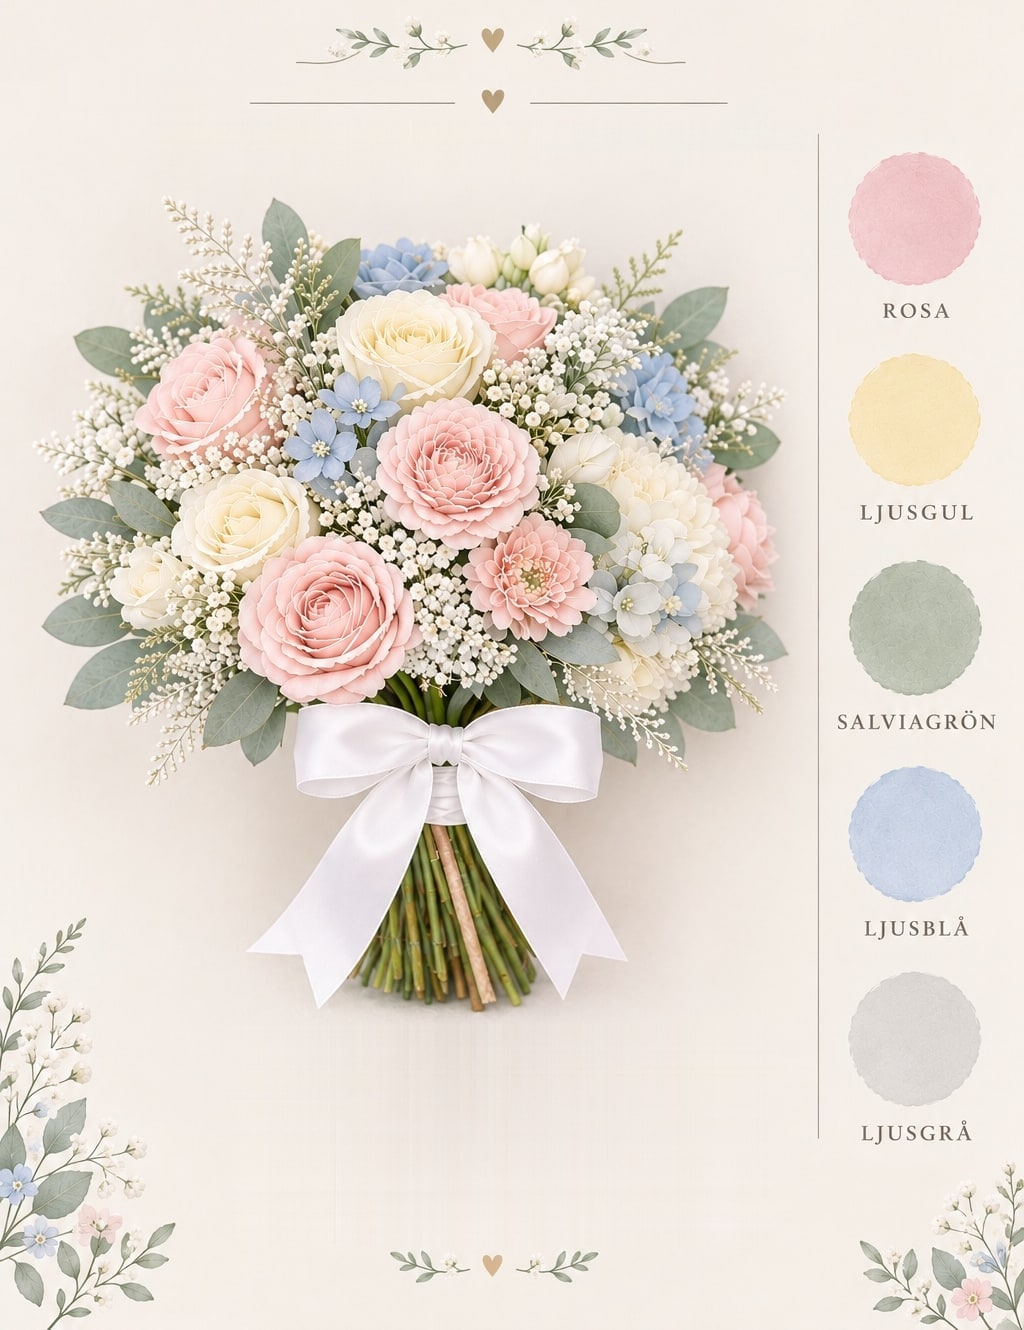
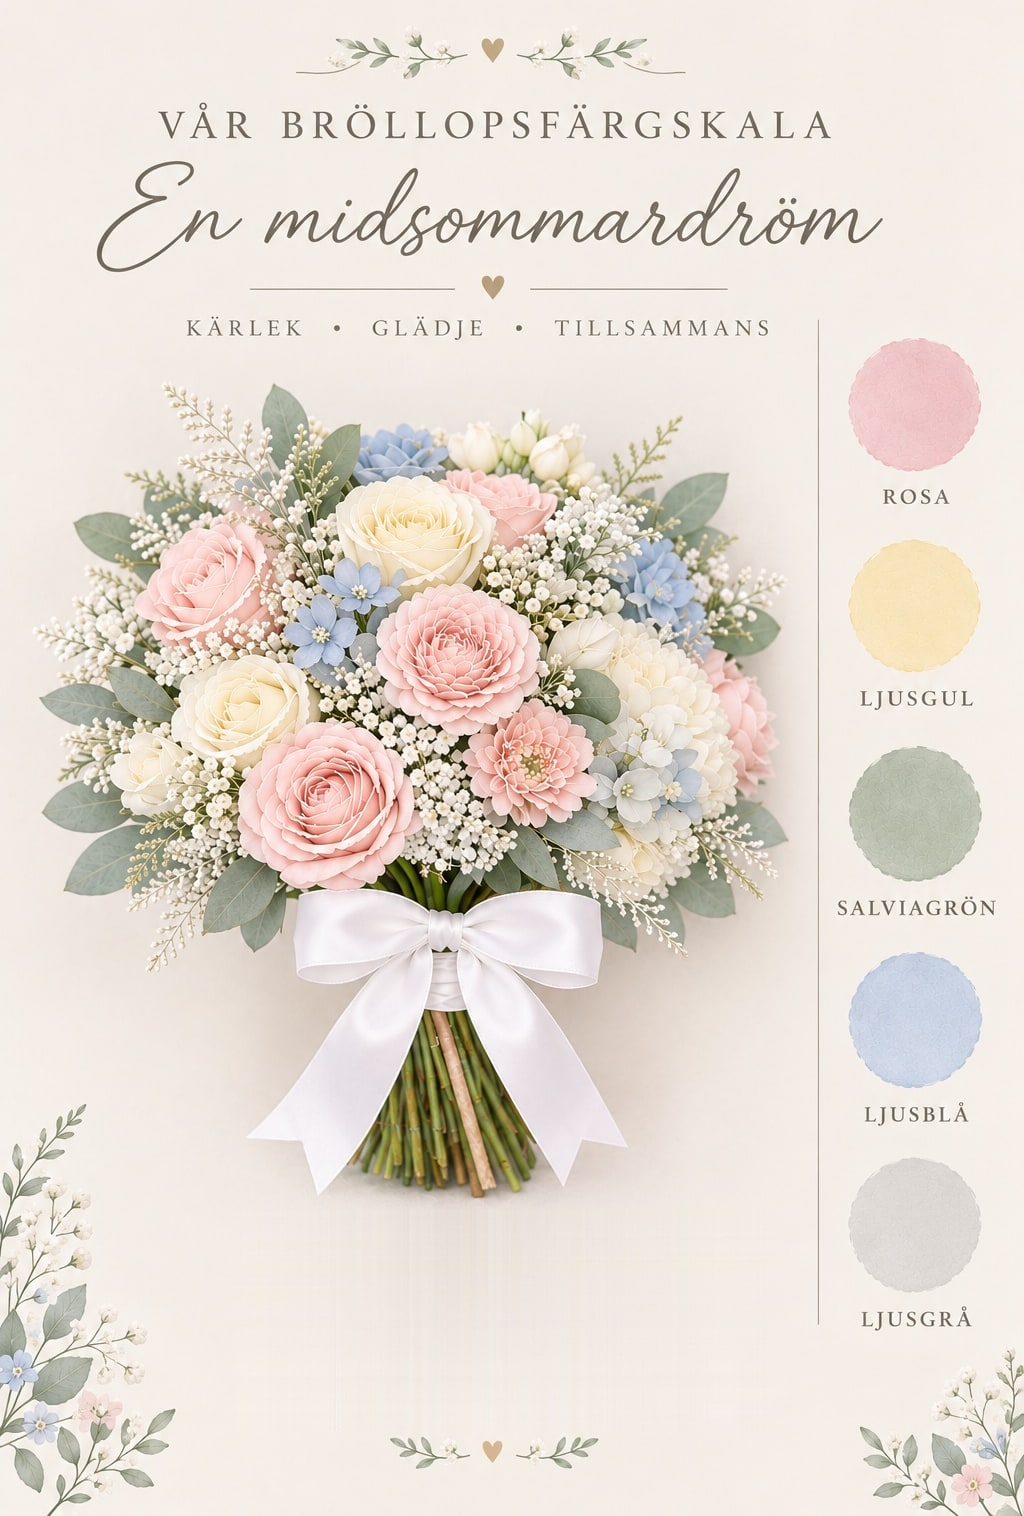
Klädkod: behåll rubriken i inspirationsbilden

diff --git a/app/page.tsx b/app/page.tsx
@@ -38,10 +38,10 @@ const navLinks = [
   { href: "#osa", label: "OSA" }
 ];
 
-type Faq = { title: string; a: string | readonly string[]; image: string; position: string; alt?: string; featured?: boolean; kicker?: string; signoff?: string };
+type Faq = { title: string; a: string | readonly string[]; image: string; position: string; alt?: string; featured?: boolean; signoff?: string };
 
 const faqs: Faq[] = [
-  ...(WEDDING.dressCode ? [{ title: `Klädkod: ${WEDDING.dressCode}`, a: WEDDING.dressCodeNote, kicker: WEDDING.dressCodeKicker, signoff: WEDDING.dressCodeSignoff, image: "/photos/kladkod-farger.jpg", position: "center", featured: true, alt: "Inspirationsbild: vår bröllopsbukett med rosa och ljusgula rosor, ljusblå blommor, slöjblomster och salviagröna blad, knuten med vitt band, bredvid fem färgprover märkta rosa, ljusgul, salviagrön, ljusblå och ljusgrå, med blomrankor i hörnen." }] : []),
+  ...(WEDDING.dressCode ? [{ title: `Klädkod: ${WEDDING.dressCode}`, a: WEDDING.dressCodeNote, signoff: WEDDING.dressCodeSignoff, image: "/photos/kladkod-farger.jpg", position: "center", featured: true, alt: "Inspirationsbild med rubriken Vår bröllopsfärgskala – En midsommardröm – Kärlek, glädje, tillsammans: vår bröllopsbukett med rosa och ljusgula rosor, ljusblå blommor, slöjblomster och salviagröna blad, knuten med vitt band, bredvid fem färgprover märkta rosa, ljusgul, salviagrön, ljusblå och ljusgrå, med blomrankor i hörnen." }] : []),
   ...(WEDDING.children ? [{ title: "Barnen", a: WEDDING.children, image: "/photos/barnen.jpg", position: "center 18%" }] : []),
   { title: "Presenter", a: "Er närvaro är den finaste presenten. Den som ändå vill får gärna bidra till vår resa.", image: "/photos/presenter.jpg", position: "center 40%", alt: "Joakim och Elsa ler mot kameran, han med en stor blombukett i papper och hon med rosa rosor i en glasburk." }
 ];
@@ -247,7 +247,7 @@ export default async function Home({ searchParams }: HomeProps) {
               <article className={`faq-card group flex h-full flex-col bg-shell ${faq.featured ? "sm:grid sm:grid-cols-2" : ""}`}>
                 {faq.featured ? (
                   // Bakgrunden matchar bildens papperston så att den oklippta bilden smälter in.
-                  <div className="relative aspect-[1024/1330] bg-[#f3ece5]">
+                  <div className="relative aspect-[1024/1516] bg-[#f3ece5]">
                     <Image src={faq.image} alt={faq.alt ?? ""} fill sizes="(min-width: 1152px) 600px, (min-width: 640px) 50vw, 100vw" className="object-contain" />
                     <span className="absolute left-4 top-3 font-display text-sm tracking-[.08em] text-ink/70" aria-hidden="true">{String(index + 1).padStart(2, "0")}</span>
                   </div>
@@ -259,7 +259,6 @@ export default async function Home({ searchParams }: HomeProps) {
                 )}
                 <div className={`flex flex-1 flex-col px-6 pb-7 pt-6 ${faq.featured ? "sm:justify-center sm:px-10 lg:px-16" : ""}`}>
                   <h3 className={`font-display leading-tight text-ink ${faq.featured ? "text-4xl sm:text-5xl lg:text-6xl" : "text-3xl"}`}>{faq.title}</h3>
-                  {faq.kicker && <p className="mt-2 font-accent text-3xl leading-tight text-ember">{faq.kicker}</p>}
                   <span className="mt-4 block h-px w-10 bg-ink/25 transition-all duration-500 group-hover:w-16" aria-hidden="true" />
                   {(typeof faq.a === "string" ? [faq.a] : faq.a).map((paragraph) => (
                     <p key={paragraph} className={`mt-4 text-ink/75 ${faq.featured ? "max-w-md text-lg leading-8" : "leading-7"}`}>{paragraph}</p>

diff --git a/lib/site.ts b/lib/site.ts
@@ -20,8 +20,7 @@ export const WEDDING = {
   dressCodeNote: [
     "Vi ser fram emot att fira vår stora dag med er, och hoppas att ni vill klä er i färgerna från vår bröllopsbukett: rosa, ljusgul, salviagrön, ljusblå och ljusgrå."
   ],
-  /** Rubrik och hälsning från inspirationsbilden. */
-  dressCodeKicker: "En midsommardröm",
+  /** Hälsning under klädkoden. */
   dressCodeSignoff: "Tack för att ni är en del av vår resa!",
   /** T.ex. "Barn är varmt välkomna!" */
   children: "Barn är varmt välkomna till ceremonin i kyrkan. Under middagen och festen råder vuxet sällskap. Spädbarn är givetvis välkomna, de behöver inte anmälas i OSA:n.",
